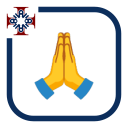
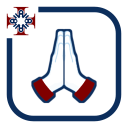
DFX Prayer Intentions 26.11.19
The praying hands of the icon take the DFX family colours: white hands with
a thick navy (#0c2e5c) outline and a navy line between them, and maroon
(#800000) cuffs like the maker's mark, instead of the emoji's yellow and
blue.

Changed region(s): [[0.2188, 0.2188, 0.7812, 0.8125]]

diff --git a/dfx-prayer-intentions.php b/dfx-prayer-intentions.php
@@ -3,7 +3,7 @@
  * Plugin Name:       DFX Prayer Intentions – Prayer Requests for Small Groups
  * Plugin URI:        https://github.com/davefx/dfx-prayer-intentions
  * Description:       Collect, moderate and share the prayer intentions of small intercession groups: public request form, lifecycle by type, WhatsApp-ready index and daily digest.
- * Version:           26.11.18
+ * Version:           26.11.19
  * Requires at least: 6.5
  * Requires PHP:      8.1
  * Author:            David Marín Carreño
@@ -20,7 +20,7 @@ if ( ! defined( 'ABSPATH' ) ) {
 	exit;
 }
 
-define( 'DFXPRAY_VERSION', '26.11.18' );
+define( 'DFXPRAY_VERSION', '26.11.19' );
 define( 'DFXPRAY_PLUGIN_FILE', __FILE__ );
 define( 'DFXPRAY_PLUGIN_DIR', plugin_dir_path( __FILE__ ) );
 define( 'DFXPRAY_PLUGIN_URL', plugin_dir_url( __FILE__ ) );

diff --git a/blocks/form/editor.asset.php b/blocks/form/editor.asset.php
@@ -7,5 +7,5 @@
 
 return array(
 	'dependencies' => array( 'wp-blocks', 'wp-element', 'wp-components', 'wp-block-editor', 'wp-i18n', 'wp-server-side-render' ),
-	'version'      => '26.11.18',
+	'version'      => '26.11.19',
 );
